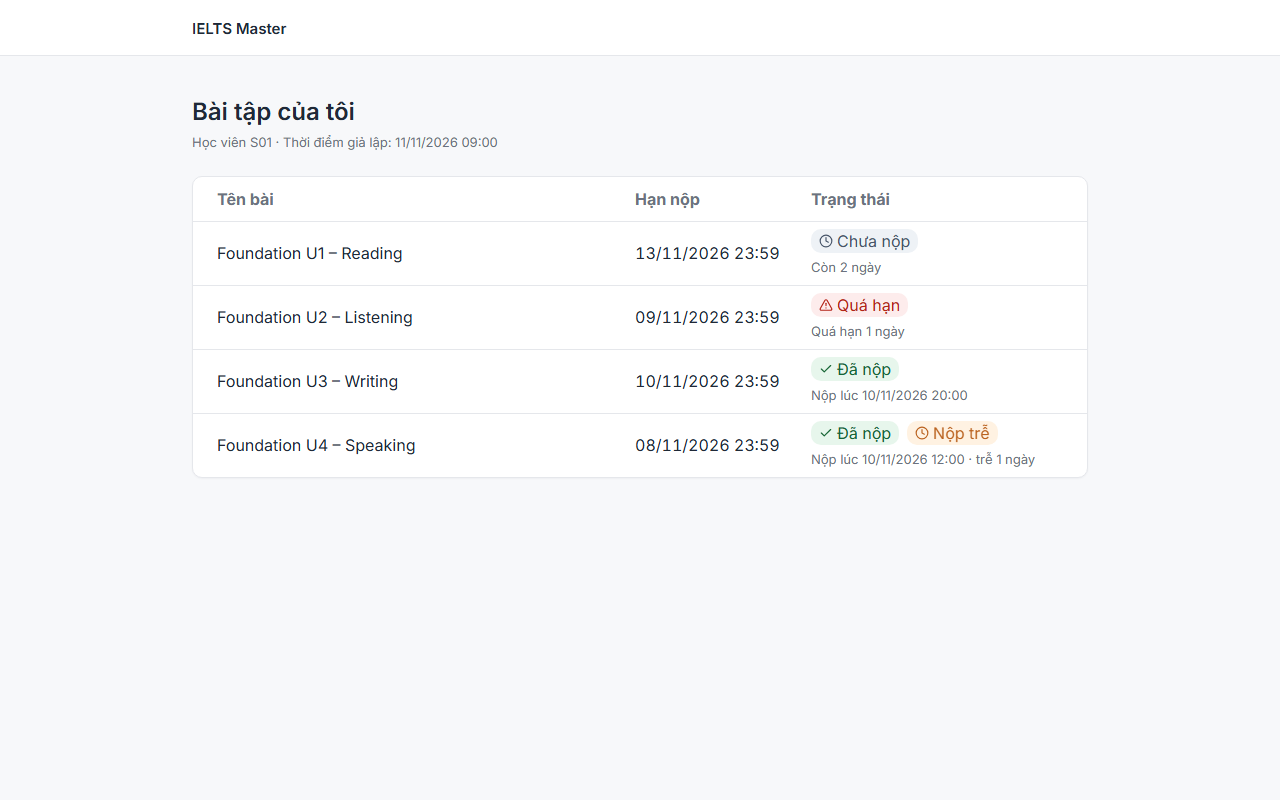
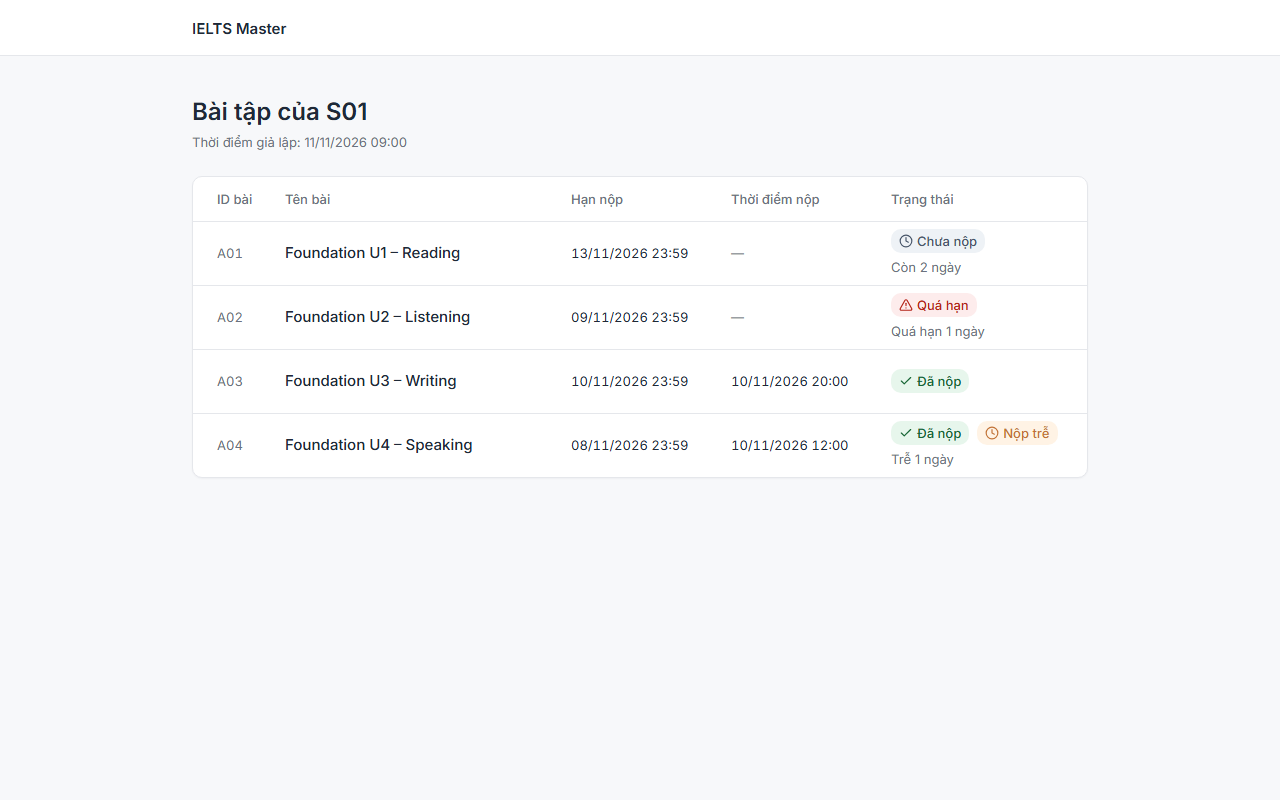
test(e2e): assert id, submitted-at columns and new title

diff --git a/e2e/assignments.spec.ts b/e2e/assignments.spec.ts
@@ -4,18 +4,24 @@ test('shows S01 assignments with correct statuses and saves screenshot', async (
   await page.setViewportSize({ width: 1280, height: 800 })
   await page.goto('/')
 
+  await expect(page.getByRole('heading', { level: 1, name: 'Bài tập của S01' })).toBeVisible()
+
   const rows = page.locator('table tbody tr')
   await expect(rows).toHaveCount(4)
 
   const expected = [
-    ['Foundation U1 – Reading', 'Chưa nộp', 'Còn 2 ngày'],
-    ['Foundation U2 – Listening', 'Quá hạn'],
-    ['Foundation U3 – Writing', 'Đã nộp'],
-    ['Foundation U4 – Speaking', 'Đã nộp', 'Nộp trễ'],
+    ['A01', 'Foundation U1 – Reading', 'Chưa nộp', 'Còn 2 ngày'],
+    ['A02', 'Foundation U2 – Listening', 'Quá hạn'],
+    ['A03', 'Foundation U3 – Writing', 'Đã nộp', '10/11/2026 20:00'],
+    ['A04', 'Foundation U4 – Speaking', 'Đã nộp', 'Nộp trễ', '10/11/2026 12:00'],
   ]
   for (const [i, texts] of expected.entries()) {
     for (const t of texts) await expect(rows.nth(i)).toContainText(t)
   }
+  // Submitted-at column (4th cell): "—" when not submitted.
+  const submittedAt = rows.locator('td:nth-child(4)')
+  await expect(submittedAt).toHaveText(['—', '—', '10/11/2026 20:00', '10/11/2026 12:00'])
+  await expect(page.locator('table')).not.toContainText('B01')
   await expect(rows.nth(0)).not.toContainText('Quá hạn')
   await expect(rows.nth(2)).not.toContainText('Nộp trễ')
 
